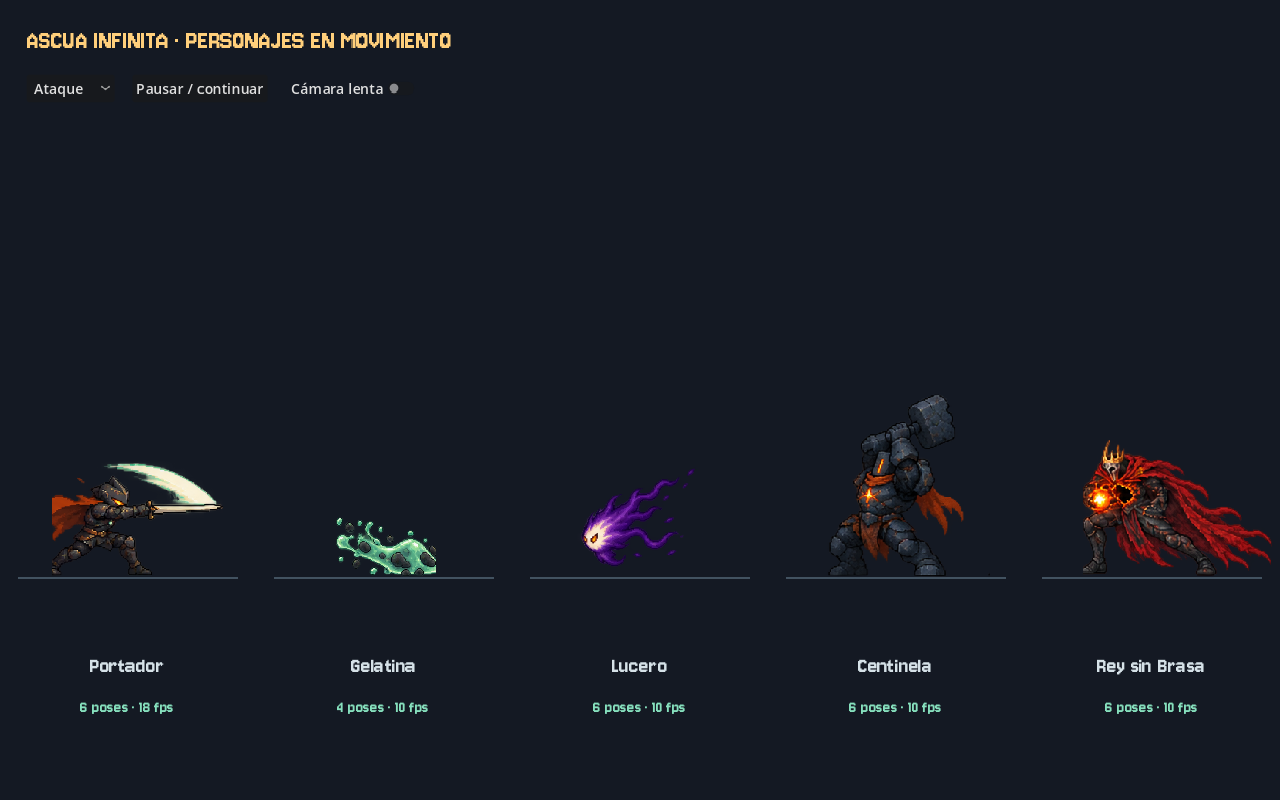
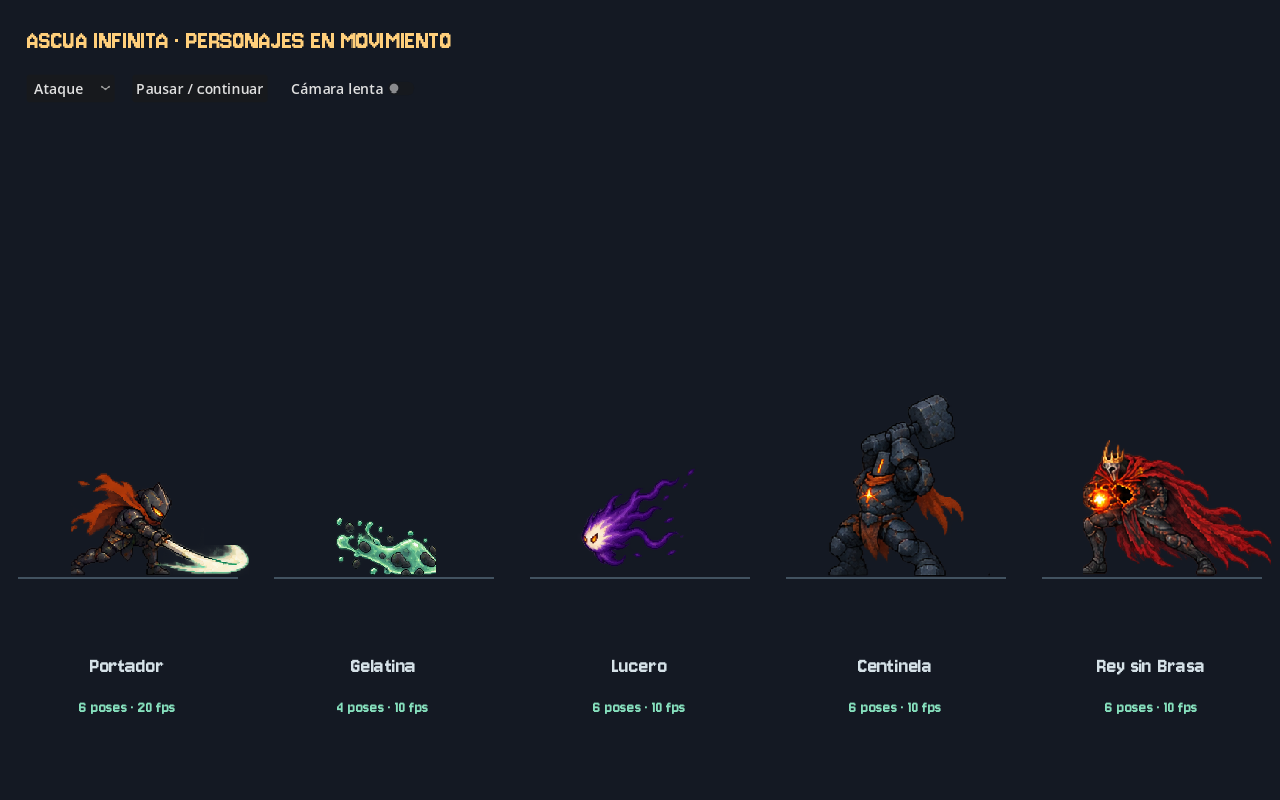
fix: synchronize combat contact and polish animation timing

Changed region(s): [[0.0312, 0.5625, 0.2188, 0.7188], [0.0625, 0.875, 0.1562, 0.9062]]

diff --git a/docs/PLAN_0_3.md b/docs/PLAN_0_3.md
@@ -43,3 +43,14 @@ Para cada lote: adjuntar referencias existentes, aprobar un fotograma, pedir cad
 `tools/simulate.gd -- --sample` compara cinco semillas a 0, 1, 3 y 5 intentos de clic por segundo. El bot compra mejoras, recoge ascuas, usa Destello y elige siempre la ruta segura: cero clics **no significa ausencia de decisiones**. La simulación orienta; no demuestra diversión ni sustituye a jugadores.
 
 Para probar manualmente: una expedición dejando trabajar a los luceros y usando habilidades; otra manteniendo Espacio; otra alternando rutas y rechazando tratos. Comprobar cuánto tarda el primer jefe, por qué termina el viaje y si cada compra se nota.
+
+## Pulido de combate — 4 de octubre de 2026
+
+- Ataque del portador: seis poses a 20 fps; preparación de 0,15 s, contacto y recuperación dentro de la cadencia existente de 0,3 s. Desplazamiento hacia el objetivo y sombra ligada a los pies.
+- Daño, destello del enemigo, número y sonido se activan en el mismo contacto. Estela verde coherente con la espada.
+- Proyectiles de compañeros y carga del Rey salen antes del daño. Interrumpir la carga retira su proyectil.
+- Destello activa sus efectos antes de resolver una muerte, conservando el objetivo correcto.
+- Pausar o elegir recompensas congela personajes y efectos. Guardar a mitad de un ataque conserva el tiempo pendiente; morir o cambiar de objetivo lo cancela.
+- Pruebas: progresión (71), assets (1011), rutas (36), interfaz (34), sincronización (17). Prueba gráfica de 70 segundos, 10070 fotogramas, sin errores; mejor cámara 27.
+
+Se conserva el arte generado existente. Este bloque ajusta su reproducción y la respuesta del combate; la valoración de fluidez final sigue requiriendo una partida humana.

diff --git a/assets/art/imagegen/README.md b/assets/art/imagegen/README.md
@@ -4,7 +4,7 @@ Cinco hojas nuevas creadas con la herramienta integrada ImageGen de OpenAI, sin 
 
 Cada hoja tiene 24 poses: seis de reposo, seis de movimiento, seis de ataque, tres de daño y tres de muerte. En la gelatina se excluyen dos poses de ataque donde los ojos cambian de orientación. `characters.json` contiene recortes, puntos de apoyo y secuencias; `tools/import_imagegen.gd` reconstruye solo estos metadatos. Algunos golpes se dibujan por partes para separar capas y efectos que invaden el espacio entre celdas. El motor usa filtro nearest para conservar bordes definidos.
 
-Los clics encolan como máximo un ataque visual y no reinician un golpe a mitad. Daño y muerte pueden interrumpirlo. Los fondos, iconos, efectos y compañeros conservan el arte anterior; este lote renueva al portador y los cuatro enemigos.
+Cada clic aceptado inicia un ataque de 0,3 s: el contacto a los 0,15 s aplica daño, sonido y efectos juntos. La recuperación termina antes del siguiente clic. Una muerte cancela el daño pendiente contra ese objetivo. Los fondos, iconos, efectos y compañeros conservan el arte anterior; este lote renueva al portador y los cuatro enemigos.
 
 ## Prompts de producción (registro de las especificaciones)
 
